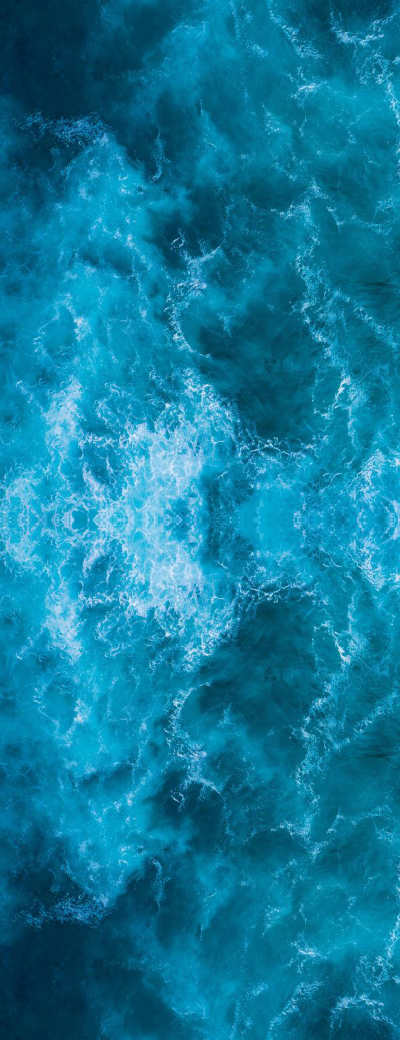
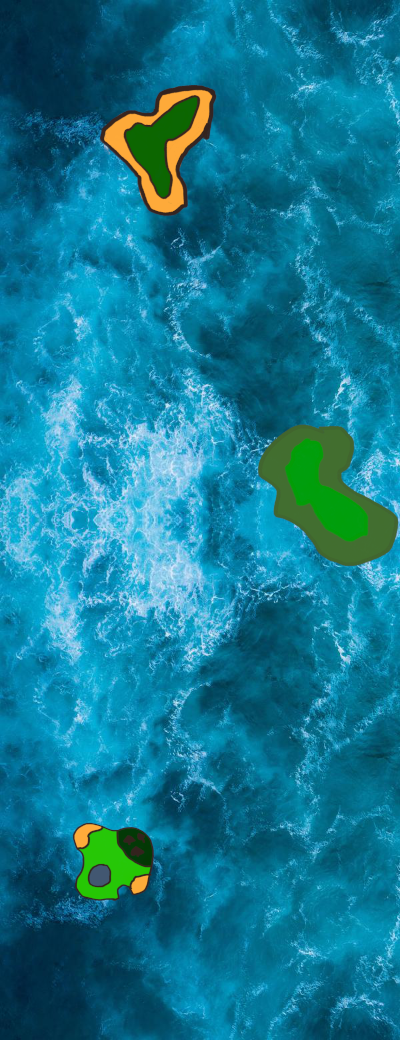
WIP

Changed region(s): [[0.63, 0.4, 1.0, 0.5538], [0.24, 0.0615, 0.54, 0.2154], [0.18, 0.7692, 0.39, 0.8923]]

diff --git a/lib/cgame.dart b/lib/cgame.dart
@@ -128,8 +128,8 @@ class CGame extends BaseGame with TapDetector, HasWidgetsOverlay {
         plane.y = -200;
       } else {
         crashFrameCount--;
-        plane.width--;
-        plane.height--;
+        plane.width -= 3;
+        plane.height -= 3;
         plane.x -= 3;
       }
     } else if (planeCollision()) {
@@ -182,7 +182,12 @@ class CGame extends BaseGame with TapDetector, HasWidgetsOverlay {
       int min = 40;
       int max = screenSize.width.toInt() - 60;
       rnd = new Random();
-      final numba = (min + rnd.nextInt(max - min));
+      int numba = (min + rnd.nextInt(max - min));
+
+      if (numba == null) {
+        numba = 0;
+      }
+
       return numba.toDouble();
     } catch (ex) {
       return 100;
@@ -194,6 +199,6 @@ class CGame extends BaseGame with TapDetector, HasWidgetsOverlay {
   }
 
   bool planeCollision() {
-    return player.x - plane.x < 20 && player.y <= (plane.y);
+    return player.x - plane.x < 0 && player.y <= (plane.y + plane.height);
   }
 }
